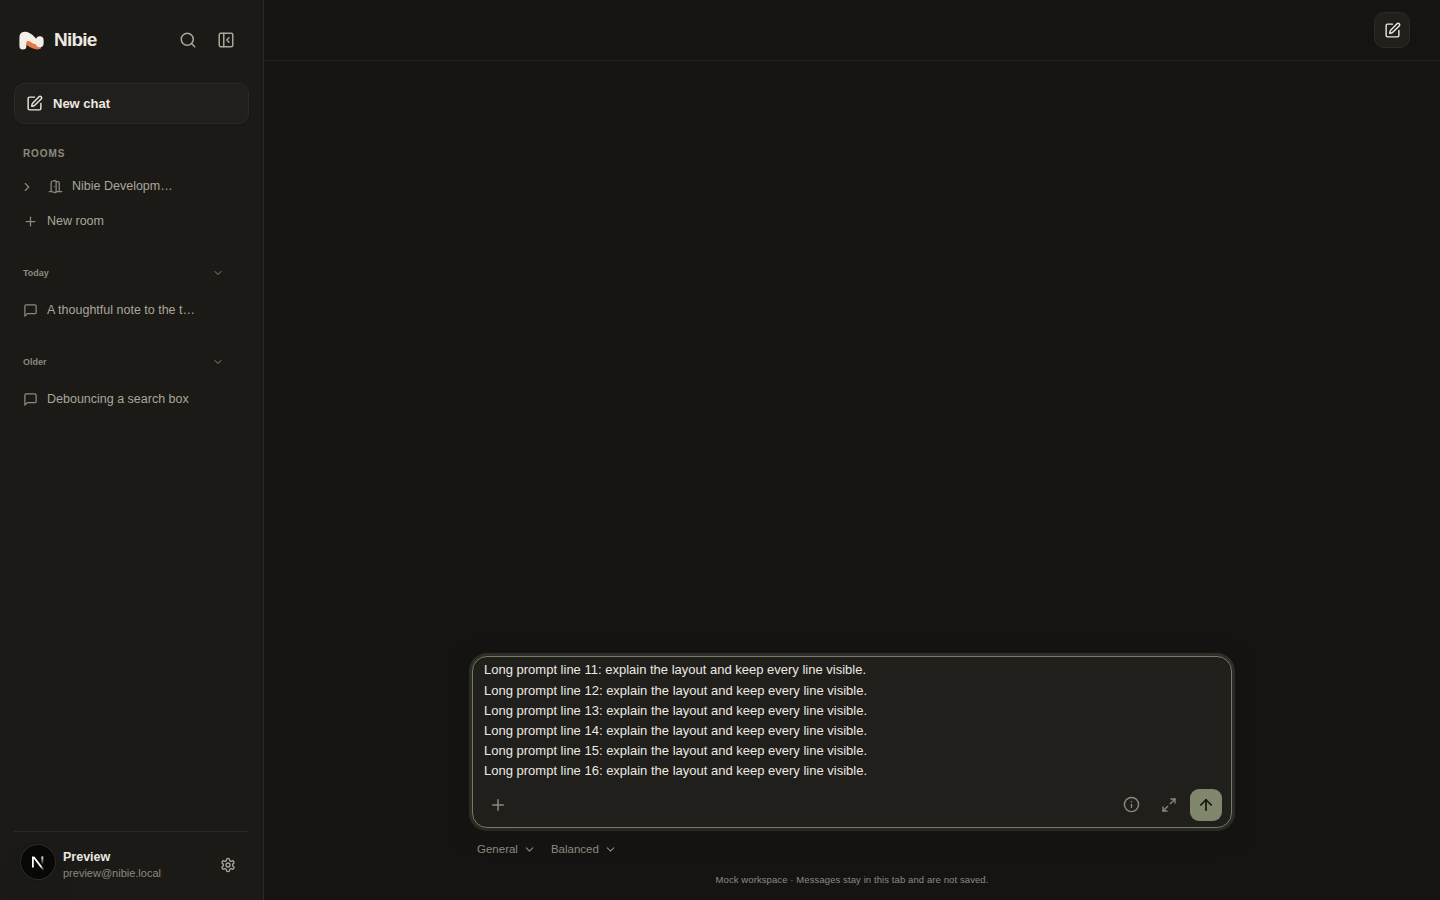
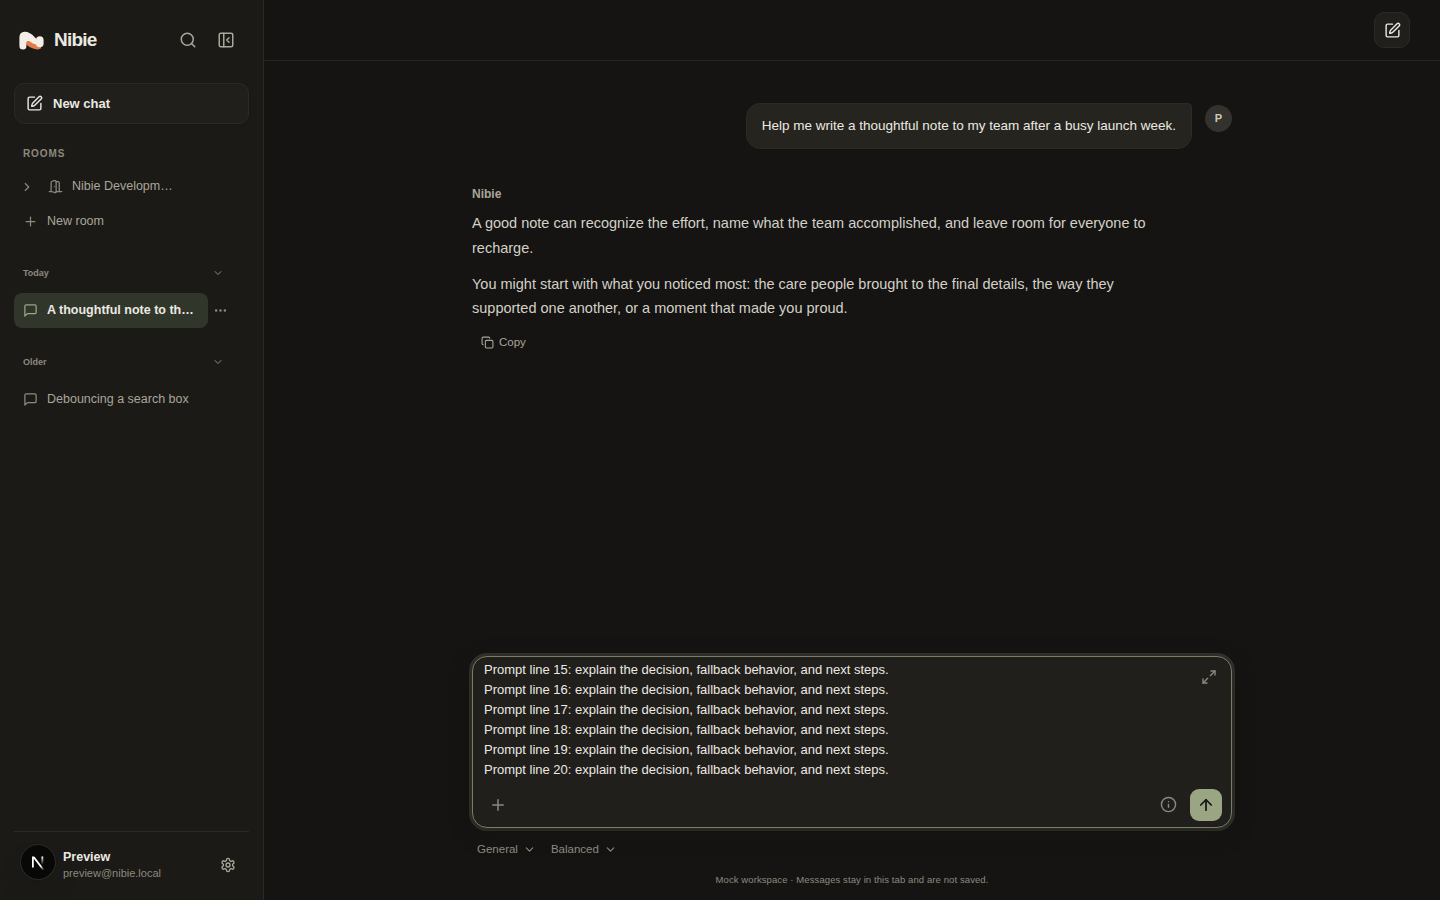
fix(ui): move Expand into the prompt field

diff --git a/tests/e2e/chat-composer-layout.spec.ts b/tests/e2e/chat-composer-layout.spec.ts
@@ -102,6 +102,7 @@ test("growing composer stays below messages at desktop, tablet, and mobile sizes
     await page.keyboard.press("Control+V");
     await expect(textarea).toHaveValue(longPrompt);
     await expect.poll(() => textarea.evaluate((element) => element.getBoundingClientRect().height)).toBeGreaterThanOrEqual(tenLineHeight);
+    await expect.poll(() => page.locator(".conversation-scroll.has-messages").evaluate((element) => element.querySelector<HTMLElement>(".message-row:last-child")!.getBoundingClientRect().bottom - element.getBoundingClientRect().bottom)).toBeLessThanOrEqual(1);
     const metrics = await expectComposerGeometry(page);
     expect(metrics.textareaScrollHeight).toBeGreaterThan(metrics.textareaClientHeight);
     expect(metrics.textareaScrollbarWidth).toBe("thin");
@@ -127,6 +128,14 @@ test("expand affordance tracks actual textarea overflow", async ({ page }) => {
   const shortDraftHeight = await textarea.evaluate((element) => element.getBoundingClientRect().height);
   await textarea.fill(Array.from({ length: 20 }, (_, i) => `Prompt line ${i + 1}`).join("\n"));
   await expect(expand).toBeVisible();
+  const [textareaBox, expandBox] = await Promise.all([textarea.boundingBox(), expand.boundingBox()]);
+  expect(textareaBox).not.toBeNull();
+  expect(expandBox).not.toBeNull();
+  expect(expandBox!.x).toBeGreaterThanOrEqual(textareaBox!.x + textareaBox!.width - expandBox!.width - 1);
+  expect(expandBox!.x + expandBox!.width).toBeLessThanOrEqual(textareaBox!.x + textareaBox!.width + 1);
+  expect(expandBox!.y).toBeGreaterThanOrEqual(textareaBox!.y - 1);
+  expect(expandBox!.y + expandBox!.height).toBeLessThanOrEqual(textareaBox!.y + textareaBox!.height + 1);
+  await expect(page.locator(".composer-actions").getByRole("button", { name: "Expand composer" })).toHaveCount(0);
   const geometry = await expectComposerGeometry(page);
   expect(geometry.textareaBottom).toBeLessThanOrEqual(geometry.actionsTop + 1);
   await textarea.fill("Short again");
@@ -143,8 +152,17 @@ test("expand and collapse preserve draft, focus, selection, and send reset", asy
   const textarea = page.getByRole("textbox", { name: "Message Nibie" });
   const draft = Array.from({ length: 20 }, (_, index) => `Prompt line ${index + 1}`).join("\n");
   await textarea.fill(draft);
-  await expect(page.getByRole("button", { name: "Expand composer" })).toBeVisible();
-  await page.getByRole("button", { name: "Expand composer" }).click();
+  const expand = page.getByRole("button", { name: "Expand composer" });
+  await expect(expand).toBeVisible();
+  const [textareaBox, expandBox] = await Promise.all([textarea.boundingBox(), expand.boundingBox()]);
+  expect(textareaBox).not.toBeNull();
+  expect(expandBox).not.toBeNull();
+  expect(expandBox!.x).toBeGreaterThanOrEqual(textareaBox!.x + textareaBox!.width - expandBox!.width - 1);
+  expect(expandBox!.x + expandBox!.width).toBeLessThanOrEqual(textareaBox!.x + textareaBox!.width + 1);
+  expect(expandBox!.y).toBeGreaterThanOrEqual(textareaBox!.y - 1);
+  expect(expandBox!.y + expandBox!.height).toBeLessThanOrEqual(textareaBox!.y + textareaBox!.height + 1);
+  await expect(page.locator(".composer-actions").getByRole("button", { name: "Expand composer" })).toHaveCount(0);
+  await expand.click();
   await expect(page.getByRole("button", { name: "Collapse composer" })).toBeVisible();
   await page.getByRole("button", { name: "Collapse composer" }).click();
   await textarea.evaluate((element: HTMLTextAreaElement) => { element.focus(); element.setSelectionRange(12, 24); });

diff --git a/components/chat-composer.tsx b/components/chat-composer.tsx
@@ -183,7 +183,10 @@ export const ChatComposer = memo(function ChatComposer({ ref, dockRef, sending, 
         {expanded ? <div className="composer-expanded-header"><span className="composer-expanded-label">Message</span><button className="composer-icon" type="button" aria-label="Collapse composer" title="Collapse composer" aria-expanded="true" onClick={toggleExpanded}><Minimize2 size={16} aria-hidden="true" /></button></div> : null}
         <div className="composer-content">
           <ComposerAttachments items={attachments.items} notice={attachments.notice} disabled={sending} onRemove={attachments.remove} onRetry={attachments.retry} />
-          <textarea ref={textareaRef} aria-label="Message Nibie" placeholder="Ask Nibie anything..." enterKeyHint={enterToSend ? "send" : "enter"} value={draft} rows={1} onChange={(event) => { expandedBeforeClearRef.current = null; setDraft(event.target.value); }} onKeyDown={handleKeyDown} />
+          <div className={`composer-input-wrap${!expanded && canExpand ? " has-expand" : ""}`}>
+            <textarea ref={textareaRef} aria-label="Message Nibie" placeholder="Ask Nibie anything..." enterKeyHint={enterToSend ? "send" : "enter"} value={draft} rows={1} onChange={(event) => { expandedBeforeClearRef.current = null; setDraft(event.target.value); }} onKeyDown={handleKeyDown} />
+            {!expanded && canExpand ? <button className="composer-icon composer-expand" type="button" aria-label="Expand composer" title="Expand composer" aria-expanded="false" onClick={toggleExpanded}><Maximize2 size={16} aria-hidden="true" /></button> : null}
+          </div>
         </div>
         {attachmentsEnabled ? <input ref={fileInputRef} className="composer-file-input" type="file" multiple accept={ATTACHMENT_ACCEPT} tabIndex={-1} aria-hidden="true" onChange={(event) => { attachments.add([...(event.target.files ?? [])]); event.target.value = ""; }} /> : null}
         <div className="composer-footer">
@@ -196,7 +199,6 @@ export const ChatComposer = memo(function ChatComposer({ ref, dockRef, sending, 
           </span>
           <div className="composer-actions">
             <ContextIndicator diagnostics={diagnostics} onEditProfile={onEditProfile} />
-            {!expanded && canExpand ? <button className="composer-icon composer-expand" type="button" aria-label="Expand composer" title="Expand composer" aria-expanded="false" onClick={toggleExpanded}><Maximize2 size={16} aria-hidden="true" /></button> : null}
             {streaming ? <button key="stop" className="send-button" type="button" aria-label="Stop response" onClick={onStop}><X size={18} /></button> : <button key="send" className="send-button" type="submit" aria-label="Send message" disabled={!draft.trim() || sending || attachmentsBlocked}>{sending ? <span className="send-spinner" /> : <ArrowUp size={18} strokeWidth={2.3} />}</button>}
           </div>
         </div>

diff --git a/app/globals.css b/app/globals.css
@@ -368,13 +368,14 @@ a.account-menu-action { font: inherit; text-decoration: none; }
 .composer-form.is-active { grid-template-areas: "input input input" "attach . actions"; row-gap: 5px; }
 .composer-form.is-active.has-attachments { grid-template-areas: "attachments attachments attachments" "input input input" "attach . actions"; }
 .composer-content, .composer-footer { display: contents; }
+.composer-input-wrap { position: relative; display: flex; grid-area: input; min-width: 0; }
+.composer-input-wrap.has-expand textarea { padding-right: 36px; }
 .composer-attachments { grid-area: attachments; }
 .composer-attach { grid-area: attach; align-self: end; }
-.composer-expand { width: 26px; height: 26px; }
+.composer-input-wrap .composer-expand { position: absolute; top: 0; right: 0; z-index: 1; width: 26px; height: 26px; }
 .composer-expanded-header { grid-area: header; display: flex; align-items: center; justify-content: space-between; gap: 8px; min-height: 26px; }
 .composer-expanded-label { color: var(--text-4); font-size: 11px; line-height: 16px; }
 .composer textarea { display: block; width: 100%; min-width: 0; max-height: min(120px, 24dvh); min-height: 26px; padding: 3px 2px; resize: none; overflow-y: auto; scrollbar-width: thin; scrollbar-color: var(--border-strong) transparent; border: 0; outline: 0; background: transparent; color: var(--text); font-size: 13px; line-height: 1.55; }
-.composer-content > textarea { grid-area: input; }
 .composer-form.is-active .composer-attach, .composer-form.is-active .composer-actions { align-self: center; }
 .composer-form:not(.is-active) .composer-attach { align-self: center; }
 .composer-form:not(.is-active) textarea { align-self: center; transform: translateY(-1px); }
@@ -382,6 +383,7 @@ a.account-menu-action { font: inherit; text-decoration: none; }
 .composer.is-expanded { height: min(48dvh, 520px); min-height: 35dvh; max-height: 55dvh; }
 .composer.is-expanded .composer-form { display: flex; flex: 1 1 auto; flex-direction: column; align-items: stretch; gap: 4px; min-height: 0; }
 .composer.is-expanded .composer-content { display: flex; flex: 1 1 auto; flex-direction: column; gap: 4px; min-height: 0; overflow-y: auto; overscroll-behavior: contain; scrollbar-width: thin; scrollbar-color: var(--border-strong) transparent; }
+.composer.is-expanded .composer-input-wrap { display: flex; flex: 1 1 auto; flex-direction: column; min-height: 0; }
 .composer.is-expanded .composer-content::-webkit-scrollbar { width: 6px; }
 .composer.is-expanded .composer-content::-webkit-scrollbar-thumb { border-radius: 999px; background: var(--border-strong); }
 .composer.is-expanded .composer-attachments { flex: none; min-width: 0; margin: 0; }
